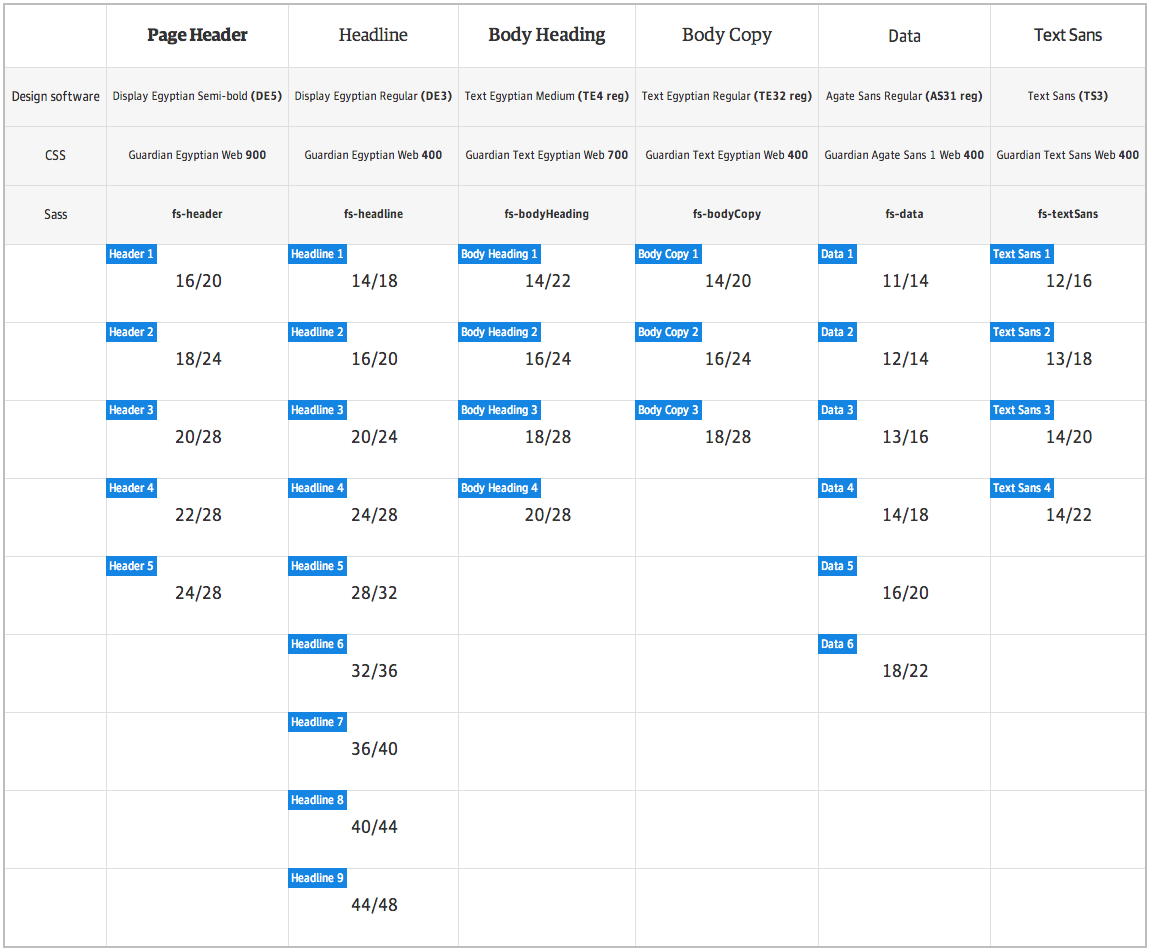
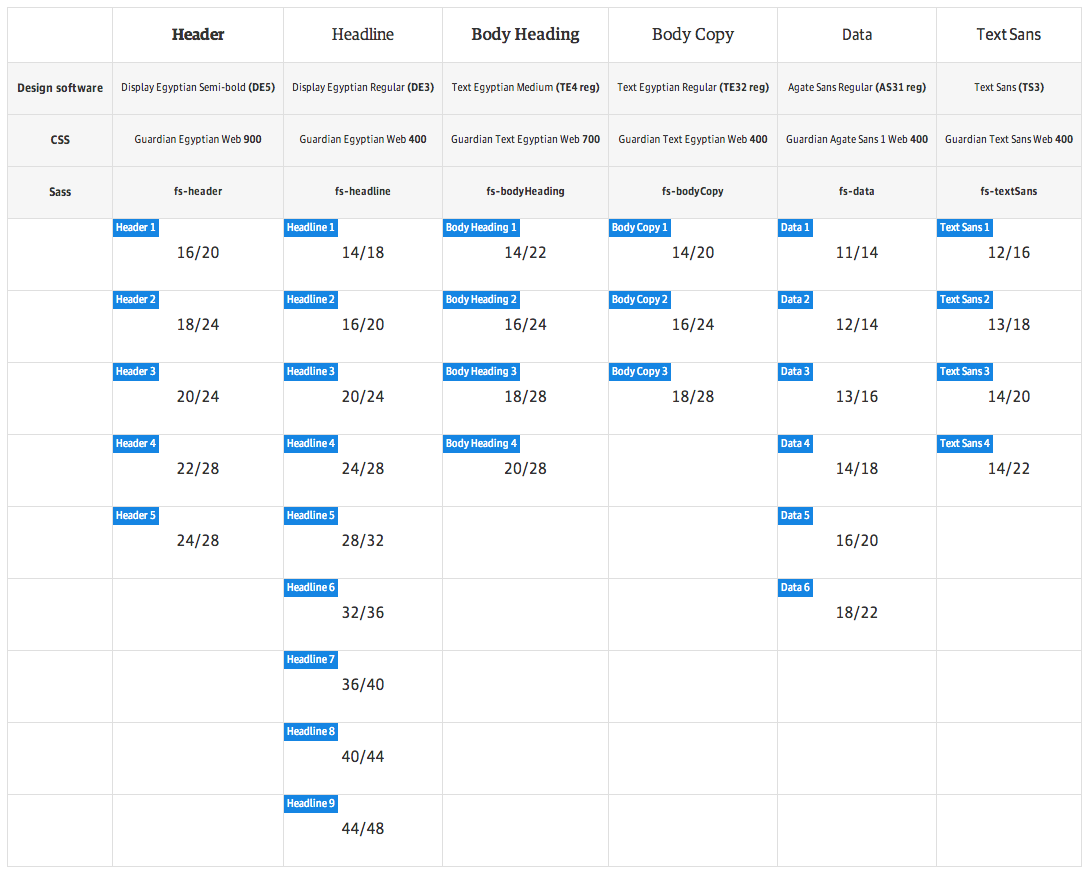
Update guss-typography to 2.0.1

diff --git a/common/app/assets/stylesheets/components/guss-typography/font-scale.html b/common/app/assets/stylesheets/components/guss-typography/font-scale.html
@@ -212,7 +212,7 @@
                 <td></td>
                 <td>
                     <b>Header 3</b>
-                    <span>20/28</span>
+                    <span>20/24</span>
                 </td>
                 <td>
                     <b>Headline 3</b>

diff --git a/common/app/assets/stylesheets/components/guss-typography/_typography.config.scss b/common/app/assets/stylesheets/components/guss-typography/_typography.config.scss
@@ -17,7 +17,7 @@ $f-sans-serif-headline: 'Guardian Sans Web', 'Helvetica Neue', Helvetica, Arial,
 $fs-headers: (
     16 20, // 1
     18 24, // 2
-    20 28, // 3
+    20 24, // 3
     22 28, // 4
     24 28, // 5
 ) !default;

diff --git a/common/app/assets/stylesheets/components/guss-typography/README.md b/common/app/assets/stylesheets/components/guss-typography/README.md
@@ -19,7 +19,7 @@ $f-sans-serif-headline: 'Guardian Sans Web', 'Helvetica Neue', Helvetica, Arial,
 $fs-headers: (
     16 20, // 1
     18 24, // 2
-    20 28, // 3
+    20 24, // 3
     22 28, // 4
     24 28, // 5
 );
@@ -65,8 +65,8 @@ $fs-textSans: (
     14 22, // 4
 );
 
-@import "path/to/_helpers.scss";
-@import "path/to/_font-scale.scss";
+@import 'path/to/_helpers.scss';
+@import 'path/to/_font-scale.scss';
 ```
 
 ## Suggested default type settings
